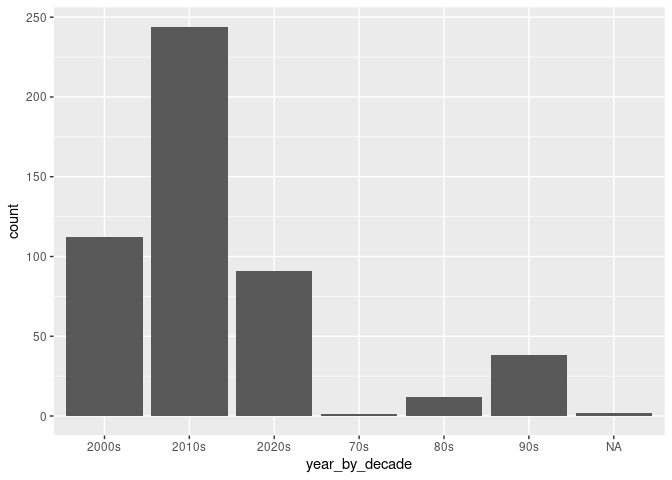
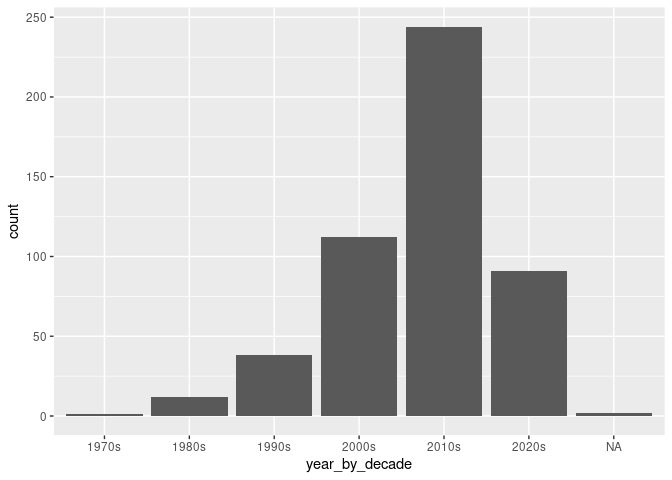
Analysing data 28.02.2024

diff --git a/proposal/proposal.md b/proposal/proposal.md
@@ -181,9 +181,9 @@ queer_books_data %>%
 
 ``` r
 queer_books_data <- queer_books_data %>% 
-  mutate(year_by_decade = case_when(year_published %in% c("1970","1971", "1972", "1973", "1974","1975", "1976", "1977", "1978", "1979") ~ "70s",
-                                    year_published %in% c("1980","1981", "1982","1983","1984","1985","1986","1987","1988","1989") ~ "80s",
-                                    year_published %in% c("1990","1991","1992","1993","1994","1995","1996","1997","1998","1999") ~ "90s",
+  mutate(year_by_decade = case_when(year_published %in% c("1970","1971", "1972", "1973", "1974","1975", "1976", "1977", "1978", "1979") ~ "1970s",
+                                    year_published %in% c("1980","1981", "1982","1983","1984","1985","1986","1987","1988","1989") ~ "1980s",
+                                    year_published %in% c("1990","1991","1992","1993","1994","1995","1996","1997","1998","1999") ~ "1990s",
                                     year_published %in% c("2000","2001","2002","2003","2004","2005","2006","2007","2008","2009") ~ "2000s",
                                     year_published %in% c("2010","2011","2012","2013","2014","2015","2016","2017","2018","2019") ~ "2010s",
                                     year_published %in% c("2020","2021","2022","2023","2024") ~ "2020s"))
@@ -192,15 +192,15 @@ queer_books_data <- queer_books_data %>%
 ``` r
 queer_books_data <- queer_books_data %>% 
   mutate(originalyear_by_decade = case_when(original_publication_year %in% c("1897","1890", "1872","-380","-1200") ~ "<1900s",
-                                            original_publication_year %in% c("1910","1911", "1912","1913","1914","1915","1916","1917","1918","1919") ~ "10s",
-                                            original_publication_year %in% c("1920","1921", "1922","1923","1924","1925","1926","1927","1928","1929") ~ "20s",
-                                            original_publication_year %in% c("1930","1931", "1932","1933","1934","1935","1936","1937","1938","1939") ~ "30s",
-                                            original_publication_year %in% c("1940","1941", "1942","1943","1944","1945","1946","1947","1948","1949") ~ "40s",
-                                            original_publication_year %in% c("1950","1951", "1952","1953","1954","1955","1956","1957","1958","1959") ~ "50s",
-                                            original_publication_year %in% c("1960","1961", "1962","1963","1964","1965","1966","1967","1968","1969") ~ "60s",
-                                            original_publication_year %in% c("1970","1971", "1972", "1973", "1974","1975", "1976", "1977", "1978", "1979") ~ "70s",
-                                    original_publication_year %in% c("1980","1981", "1982","1983","1984","1985","1986","1987","1988","1989") ~ "80s",
-                                    original_publication_year %in% c("1990","1991","1992","1993","1994","1995","1996","1997","1998","1999") ~ "90s",
+                                            original_publication_year %in% c("1910","1911", "1912","1913","1914","1915","1916","1917","1918","1919") ~ "1910s",
+                                            original_publication_year %in% c("1920","1921", "1922","1923","1924","1925","1926","1927","1928","1929") ~ "1920s",
+                                            original_publication_year %in% c("1930","1931", "1932","1933","1934","1935","1936","1937","1938","1939") ~ "1930s",
+                                            original_publication_year %in% c("1940","1941", "1942","1943","1944","1945","1946","1947","1948","1949") ~ "1940s",
+                                            original_publication_year %in% c("1950","1951", "1952","1953","1954","1955","1956","1957","1958","1959") ~ "1950s",
+                                            original_publication_year %in% c("1960","1961", "1962","1963","1964","1965","1966","1967","1968","1969") ~ "1960s",
+                                            original_publication_year %in% c("1970","1971", "1972", "1973", "1974","1975", "1976", "1977", "1978", "1979") ~ "1970s",
+                                    original_publication_year %in% c("1980","1981", "1982","1983","1984","1985","1986","1987","1988","1989") ~ "1980s",
+                                    original_publication_year %in% c("1990","1991","1992","1993","1994","1995","1996","1997","1998","1999") ~ "1990s",
                                     original_publication_year %in% c("2000","2001","2002","2003","2004","2005","2006","2007","2008","2009") ~ "2000s",
                                     original_publication_year %in% c("2010","2011","2012","2013","2014","2015","2016","2017","2018","2019") ~ "2010s",
                                     original_publication_year %in% c("2020","2021","2022","2023","2024") ~ "2020s"))
@@ -335,3 +335,34 @@ vis_miss(queer_books_genre)
 ```
 
 ![](proposal_files/figure-gfm/missing-data-1.png)<!-- -->
+
+``` r
+queer_books_genre %>% 
+  as_shadow_upset() %>% 
+  upset()
+```
+
+![](proposal_files/figure-gfm/unnamed-chunk-4-1.png)<!-- -->
+
+``` r
+republished_book %>% 
+  ggplot(aes( x = year_published, y = average_rating)) +
+  geom_point()
+```
+
+![](proposal_files/figure-gfm/unnamed-chunk-5-1.png)<!-- -->
+
+``` r
+republished_book %>% 
+  ggplot(aes( x = original_publication_year, y = year_published, colors = average_rating)) +
+  geom_point() +
+  xlim(1850, 2024)
+```
+
+    ## Warning: Removed 2 rows containing missing values (`geom_point()`).
+
+![](proposal_files/figure-gfm/republished-books-rating-1.png)<!-- -->
+
+``` r
+# create a datafarm for average ratting spectrum. 
+```
